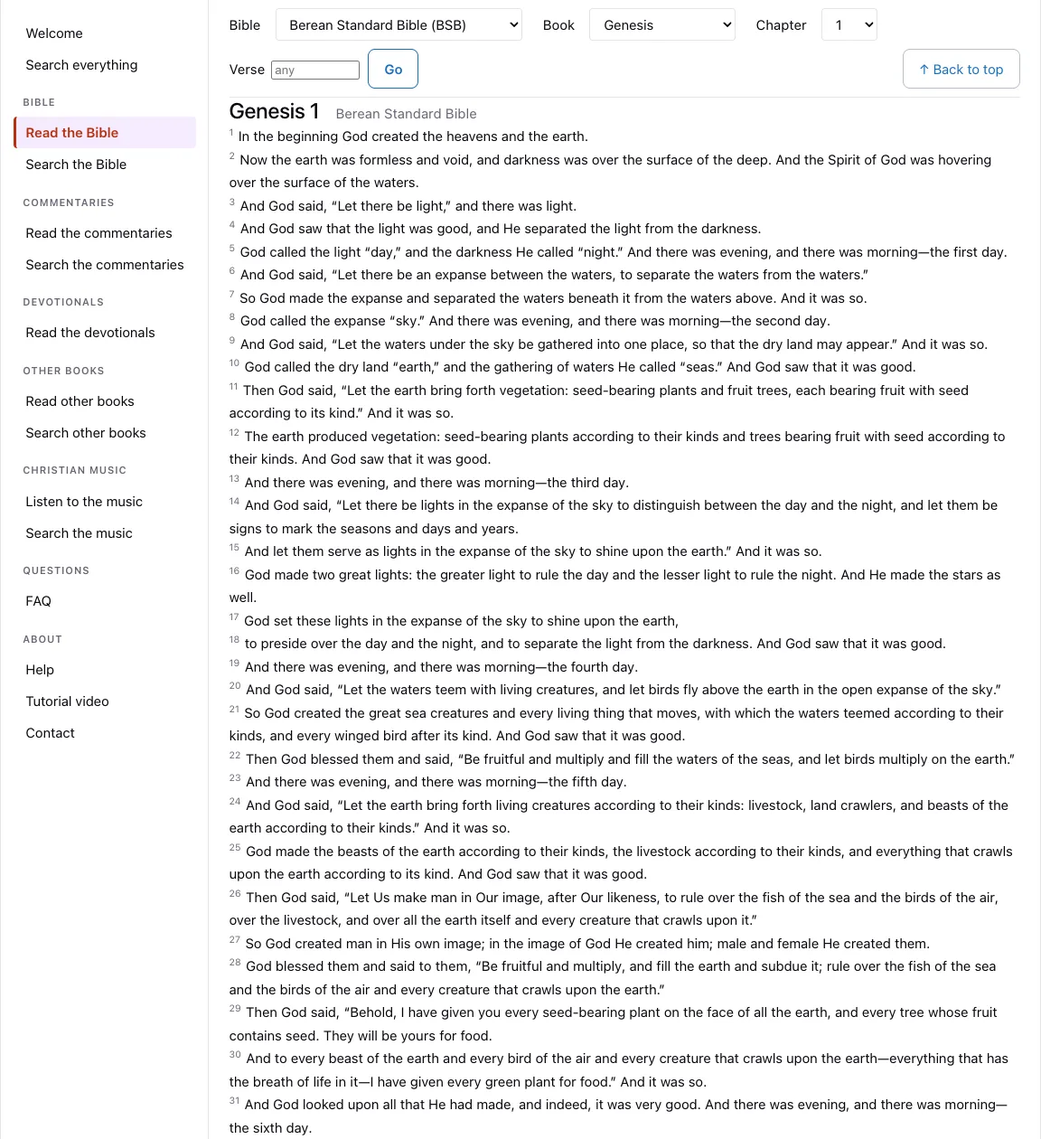
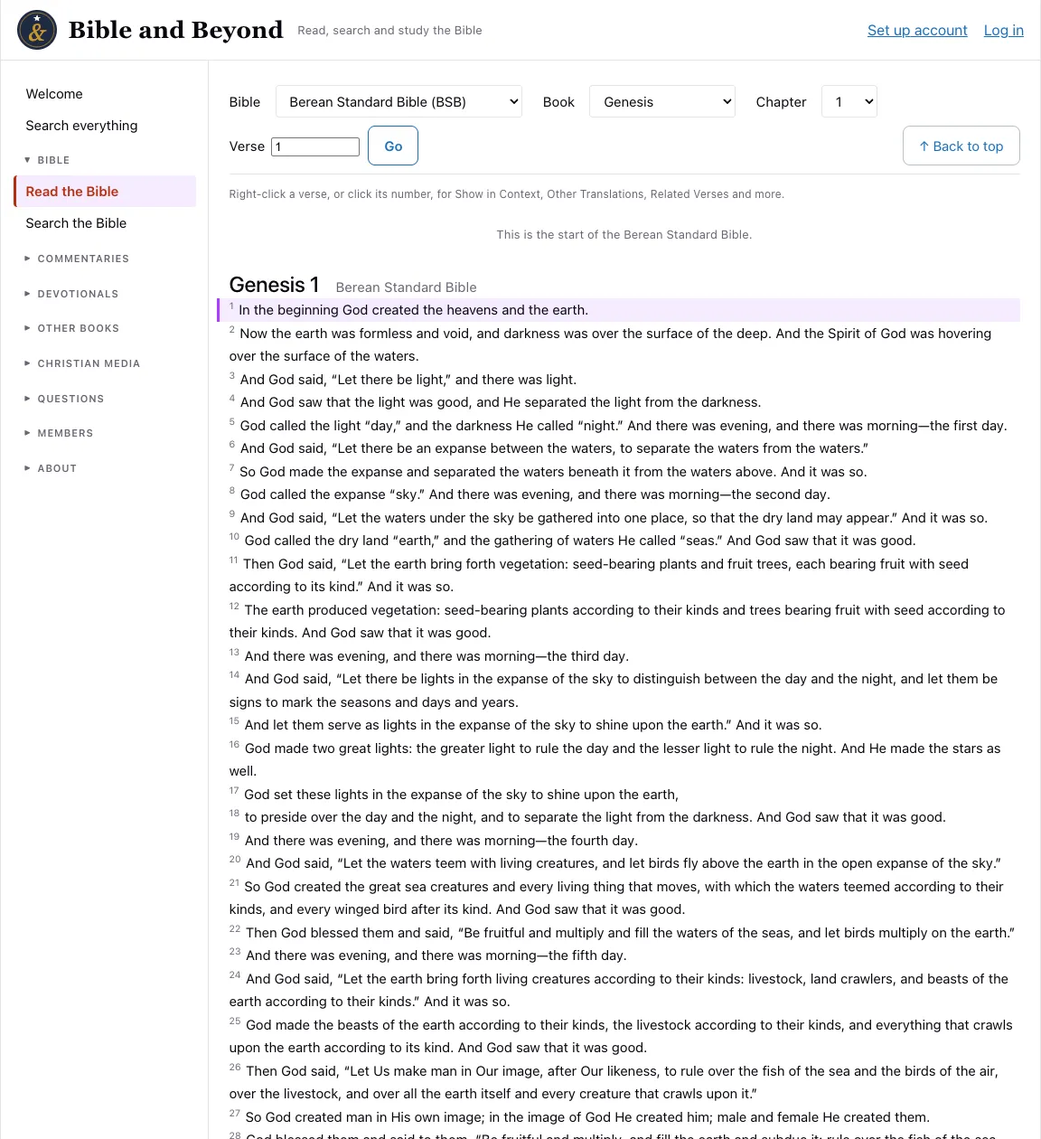
Retake the Help pictures and remake the tutorial video
All 28 Help pictures retaken with the collapsible sidebar, with new ones
for playlist Edit and the Prayer Wall; the Help text covers the menu
groups and the media names. The tutorial (11 min 6 s, captions here,
the video copied to the server by hand) adds the Prayer Wall, playlist
editing and the FAQ in Search everything. The sidebar now opens the
group of a page opened directly even when that group appears late
(Other books, Christian media), and Search everything's "Show more"
buttons are outlined like the others.

diff --git a/frontend/src/HelpPage.tsx b/frontend/src/HelpPage.tsx
@@ -106,13 +106,14 @@ function HelpPage({ translations, onNavigate, hasMusic = false }: HelpPageProps)
       <p>
         Bible and Beyond is free. You can read and search everything on it without an account and without logging in.
         If you set up an account and log in, you can also write your own notes, have a devotional emailed to you each
-        day, and ask to be allowed to put your own questions to the FAQ or to join Conversations. This guide shows each part of the site.
+        day, make music playlists, and ask to be allowed to put your own questions to the FAQ or to write in Conversations and on
+        the Prayer Wall. This guide shows each part of the site.
         Click a picture to see it full size.
       </p>
       <p>
         Prefer to watch? The{' '}
         <PageLink onNavigate={onNavigate} view="tutorial">tutorial video</PageLink>{' '}
-        is a seven-minute narrated tour of the whole site.
+        is an eleven-minute narrated tour of the whole site.
       </p>
 
       <nav className="help-contents" aria-label="Contents of this guide">
@@ -134,9 +135,12 @@ function HelpPage({ translations, onNavigate, hasMusic = false }: HelpPageProps)
           Every page has the same three parts. At the top is the <strong>header</strong>: click the name or the round
           emblem to return to the <PageLink onNavigate={onNavigate} view="welcome">Welcome</PageLink> page. At the top right are{' '}
           <em>Set up account</em> and <em>Log in</em>; once you are logged in you see your email address,{' '}
-          <em>My notes</em> and <em>Log out</em> there instead. On the left is the <strong>menu</strong>, grouped into
-          the Bible, the commentaries, the devotionals, the other books, questions (the FAQ) and about (this Help page
-          and Contact). On a phone the menu is hidden behind the menu button in the header.
+          <em>My notes</em> and <em>Log out</em> there instead. On the left is the <strong>menu</strong>: Welcome and
+          Search everything at the top, then groups for the Bible, the commentaries, the devotionals, the other books,
+          Christian media, questions (the FAQ), members (Conversations and the Prayer Wall) and about (this Help page,
+          the tutorial video and Contact). The groups start closed to keep the menu short: click a group&rsquo;s name to
+          open it and see its pages, and click it again to close it. The group of the page you are on opens by itself.
+          On a phone the menu is hidden behind the menu button in the header.
         </p>
         <p>
           The Welcome page has a card for each part of the site, listing what is on it now (the Bibles, the
@@ -147,9 +151,9 @@ function HelpPage({ translations, onNavigate, hasMusic = false }: HelpPageProps)
         <Screenshot
           name="welcome"
           width={1152}
-          height={1388}
-          alt="The Welcome page with the menu on the left and a card for the Bible, the commentaries, the devotionals and the other books"
-          caption="The Welcome page: the header, the menu on the left, a card for each part of the site, and Search everything at the foot."
+          height={1300}
+          alt="The Welcome page with the menu on the left, its groups closed, and cards for the Bible, the commentaries, the devotionals, the other books and Christian media"
+          caption="The Welcome page: the header, the menu on the left (click a group to open it), and a card for each part of the site."
         />
       </section>
 
@@ -192,7 +196,7 @@ function HelpPage({ translations, onNavigate, hasMusic = false }: HelpPageProps)
         <Screenshot
           name="search-all"
           width={1152}
-          height={1764}
+          height={1700}
           alt="Search everything with results for love in the Bible and in the commentaries"
           caption="Search everything for “love”: the Bible verses first, then the commentary notes, each with a link to read it."
         />
@@ -348,9 +352,9 @@ function HelpPage({ translations, onNavigate, hasMusic = false }: HelpPageProps)
         <Screenshot
           name="bible-search"
           width={1152}
-          height={2644}
-          alt="Search results for love in the BSB and KJV, with an NIV section below and the search options open"
-          caption="“love” searched in the BSB and the KJV together, with the NIV in its own section below, and the Search Options open."
+          height={1900}
+          alt="Search results for love in the BSB, with the search options open"
+          caption="“love” searched in the Berean Standard Bible, with the Search Options open."
         />
         <p>
           <strong>Searching with AI.</strong> If your account may ask its own FAQ questions, choose <em>Use AI to find
@@ -443,8 +447,8 @@ function HelpPage({ translations, onNavigate, hasMusic = false }: HelpPageProps)
         </p>
         <Screenshot
           name="devotional-email"
-          width={907}
-          height={409}
+          width={875}
+          height={377}
           alt="The Email me this devotional each day panel with a time of day, a time zone and a button"
           caption="Choosing a time to receive the daily reading by email."
         />
@@ -461,7 +465,7 @@ function HelpPage({ translations, onNavigate, hasMusic = false }: HelpPageProps)
         <Screenshot
           name="other-books"
           width={1152}
-          height={1870}
+          height={1700}
           alt="The list of other books, each with part and chapter choosers and a Read button"
           caption="Read other books: every book with its parts and chapters."
         />
@@ -507,7 +511,7 @@ function HelpPage({ translations, onNavigate, hasMusic = false }: HelpPageProps)
         <section id="help-music" tabIndex={-1} className="help-section">
           <h2>Christian media</h2>
           <p>
-            <PageLink onNavigate={onNavigate} view="music">Listen to the music</PageLink> lists hymns and songs by title. Open one (click its
+            <PageLink onNavigate={onNavigate} view="music">Listen to the media</PageLink> lists hymns, songs and talks by title. Open one (click its
             title) to see its player and its words; press play. Starting another pauses the first, and closing a song stops it. A recording keeps playing while
             you read another page of the site (a video pauses, since it could not be seen). Some songs show their words
             as a page of a hymnal (a picture or a PDF) rather than as text; a PDF also has a link to open it in a new
@@ -533,6 +537,13 @@ function HelpPage({ translations, onNavigate, hasMusic = false }: HelpPageProps)
             some away and save under the same name (the order is kept, new songs go at the end);{' '}
             <em>Delete this playlist</em> removes it. Your playlists are yours alone.
           </p>
+          <Screenshot
+            name="playlist-edit"
+            width={1152}
+            height={900}
+            alt="Your playlists open, editing a playlist: each song with a drag handle, up and down arrows and Remove, then the Add songs list"
+            caption="Editing a playlist: drag a song by its handle to move it, remove one, or add others from the list."
+          />
           <p>
             <PageLink onNavigate={onNavigate} view="searchMusic">Search the media</PageLink> finds a song by its title, its author, its
             words or its keywords (words the site's administrator gives it, listed first), and <em>Play this song</em> on a result takes you to it. When you are logged in, each result also has
@@ -659,8 +670,8 @@ function HelpPage({ translations, onNavigate, hasMusic = false }: HelpPageProps)
           name="note"
           width={1152}
           height={953}
-          alt="The notes window for John 1:1 with a note being written"
-          caption="Writing a note on John 1:1."
+          alt="The notes window for John 1:14 with a note being written"
+          caption="Writing a note on John 1:14."
         />
         <p>
           <PageLink onNavigate={onNavigate} view="notes">My notes</PageLink> (at the top of the page when you are logged in) lists all of your
@@ -672,7 +683,7 @@ function HelpPage({ translations, onNavigate, hasMusic = false }: HelpPageProps)
         <Screenshot
           name="my-notes"
           width={1152}
-          height={1746}
+          height={1420}
           alt="The My notes page with four notes and the form to add a note on a Bible verse"
           caption="My notes, with a note on a verse, a reading and a commentary note, and the form to add one."
         />
@@ -715,9 +726,9 @@ function HelpPage({ translations, onNavigate, hasMusic = false }: HelpPageProps)
         </ul>
         <Screenshot
           name="conversations"
-          width={920}
-          height={957}
-          alt="The Conversations page with two posts by two members, each with a reply, and Edit and Delete on the member's own post and reply"
+          width={1152}
+          height={1000}
+          alt="The Conversations page with two posts by two members, one with a reply, and Edit and Delete on the member's own post"
           caption="Conversations: posts by members, newest first, with their replies, and Edit and Delete on your own."
         />
       </section>
@@ -732,6 +743,13 @@ function HelpPage({ translations, onNavigate, hasMusic = false }: HelpPageProps)
           request shows only on the Prayer Wall, and a Conversations post only in Conversations. Anyone can read what
           you share, with your name, so leave out what others would not want made public.
         </p>
+        <Screenshot
+          name="prayer-wall"
+          width={1152}
+          height={900}
+          alt="The Prayer Wall with two prayer requests by members, one with a reply"
+          caption="The Prayer Wall: prayer requests and praises, newest first, with replies."
+        />
       </section>
 
       <section id="help-contact" tabIndex={-1} className="help-section">

diff --git a/frontend/src/SideNav.tsx b/frontend/src/SideNav.tsx
@@ -29,14 +29,17 @@ function SideNav({ groups, activeView, isOpen, onNavigate }: SideNavProps) {
     const heading = groupHeadingOf(groups, activeView)
     return new Set(heading ? [heading] : [])
   })
-  // The page last opened, so its group is opened once each time another page is reached (set while rendering, as
-  // React advises for state that follows a prop).
-  const [shownView, setShownView] = useState(activeView)
-  if (shownView !== activeView) {
-    setShownView(activeView)
-    const heading = groupHeadingOf(groups, activeView)
-    if (heading && !openHeadings.has(heading)) {
-      setOpenHeadings(new Set([...openHeadings, heading]))
+  // The page last opened and its group, so the group is opened once each time another page is reached (set while
+  // rendering, as React advises for state that follows a prop). The group is part of it because some groups
+  // (Other books, Christian media) appear only once the site knows it has some: a page of theirs opened directly
+  // is shown before its group exists.
+  const activeHeading = groupHeadingOf(groups, activeView)
+  const placeKey = `${activeView}|${activeHeading ?? ''}`
+  const [shownPlace, setShownPlace] = useState(placeKey)
+  if (shownPlace !== placeKey) {
+    setShownPlace(placeKey)
+    if (activeHeading && !openHeadings.has(activeHeading)) {
+      setOpenHeadings(new Set([...openHeadings, activeHeading]))
     }
   }
 

diff --git a/frontend/src/TutorialPage.tsx b/frontend/src/TutorialPage.tsx
@@ -4,16 +4,17 @@ interface TutorialPageProps {
   onNavigate: (view: View) => void
 }
 
-// The narrated tour of the site, a video of about ten minutes (remade 2026-11-12). The video file is too large for git: it lives in
+// The narrated tour of the site, a video of about eleven minutes (remade 2026-11-14). The video file is too large for git: it lives in
 // public/tutorial/ on the server only (see "Tutorial video" in CLAUDE.md). The poster and captions are committed.
 function TutorialPage({ onNavigate }: TutorialPageProps) {
   return (
     <div className="welcome tutorial-page">
       <h1>Tutorial video</h1>
       <p>
-        A ten-minute tour of Bible and Beyond: reading and searching the Bible, the commentaries, the devotionals,
+        An eleven-minute tour of Bible and Beyond: reading and searching the Bible, the commentaries, the devotionals,
         the other books and the media, searching the Internet Archive, the FAQ, and what a free account adds: notes,
-        daily emails, playlists, and on request AI search, your own questions and Conversations. Press play to start;
+        daily emails, playlists, and on request AI search, your own questions and posting in Conversations and on the
+        Prayer Wall. Press play to start;
         the button at the bottom right shows it full screen, and CC turns the captions on or off.
       </p>
       <video

diff --git a/frontend/src/WelcomeSearch.tsx b/frontend/src/WelcomeSearch.tsx
@@ -305,7 +305,7 @@ function WelcomeSearch({ isHidden, isPage, onOpen, onOpenSong, onOpenFaq }: Welc
             })}
           </ul>
           {group.results.length < group.total && (
-            <button type="button" className="welcome-search-more" disabled={loadingMore !== null} onClick={() => showMore(group)}>
+            <button type="button" className="secondary-button welcome-search-more" disabled={loadingMore !== null} onClick={() => showMore(group)}>
               {loadingMore === group.kind ? 'Loading…' : `Show more ${hitWords[group.kind]}s`}
             </button>
           )}

diff --git a/CLAUDE.md b/CLAUDE.md
@@ -33,11 +33,11 @@ A web app that answers Bible questions using AI/ML.
 ## Site layout (header, sidebar, welcome page, footer)
 - The page (`App.tsx`) is a header, a sidebar and the page content side by side, and a footer. It replaced the row of tabs. Each page has its own address and the browser's Back button works (see "Page addresses and the Back button"). The pages (`View` in `views.ts`): Welcome (the page the site opens on), Read the Bible, Search the Bible, Read the commentaries, Search the commentaries, Read the devotionals, FAQ, Help, Contact, My notes, the account pages (set up account, log in, forgot and reset password, confirm email, stop emails) and the copyright notices (opened from the Help page; it is not in the sidebar). The sidebar is grouped (Bible, Commentaries, Devotionals, Questions: FAQ, About: Help and Contact); the commentaries and devotionals entries appear only when there are some. Every reader and search stays mounted while another page is open, so nothing typed or scrolled is lost; each takes an `isHidden` prop.
 - **Header** (`SiteHeader.tsx`): the round emblem (`public/logo-icon.svg`: the navy circle with the gold "&" and star, taken from the main logo) and the name as text (the **Title** set on the Drupal Site settings screen, "Bible and Beyond" until changed), in a serif face, with a short tagline; clicking it goes to the welcome page. The open-book `public/favicon.svg` is the browser-tab icon only (the two were swapped by mistake once; the owner chose the emblem for the page and the book for the tab). **Both can be replaced on the Drupal Site settings screen** (see "Site icons"); these files are then used only until an uploaded one is removed. The wordmark `public/logo.svg` is not used on the page.
-- **Sidebar** (`SideNav.tsx`): it stays in view while the page scrolls (its column runs the full height so its divider does). **Its groups open and close** (2026-11-14, the owner's request, to keep it short): each heading is a button with a small triangle (`aria-expanded`), and every group starts closed except the one holding the page shown, which opens whenever that page is reached (state set while rendering, not in an effect); Welcome and Search everything have no heading and always show. What is open is not stored. On a phone (800 px or narrower) it is a menu: the header, which then stays pinned to the top of the screen, has a button that opens it over the page; choosing an entry closes it.
+- **Sidebar** (`SideNav.tsx`): it stays in view while the page scrolls (its column runs the full height so its divider does). **Its groups open and close** (2026-11-14, the owner's request, to keep it short): each heading is a button with a small triangle (`aria-expanded`), and every group starts closed except the one holding the page shown, which opens whenever that page is reached (state set while rendering, not in an effect; keyed on the page **and** its group, because Other books and Christian media appear only once loaded, so `/books` or `/music` opened directly would otherwise keep their group closed: found by the tour recording); Welcome and Search everything have no heading and always show. What is open is not stored. On a phone (800 px or narrower) it is a menu: the header, which then stays pinned to the top of the screen, has a button that opens it over the page; choosing an entry closes it.
 - **Welcome page** (`WelcomePage.tsx`): says what the site is and shows **three cards**, each with its buttons (built from what is loaded). **A card's buttons sit side by side, both at the left, at least 16px apart** (the owner's minimum; spreading them to the two edges was tried and not liked) (2026-11-14, the owner's request, to make the page shorter): no "the" in their words (Read Bible, Search Bibles, Read commentaries, Search commentaries, Read devotionals, Listen to music, Search music, Read conversations), 0.8em type, tight padding (0.35rem at the sides) and card side padding 0.6rem, so two fit a card at three cards a row; **when the cards have room** (two to a row or one wide card: a container query on `.welcome-cards`, width 22rem to 53rem, and on the Conversations card) the buttons are full size (0.95em, the usual padding), 1.25rem apart, and the cards keep their 1.1rem side padding (the Conversations card always) (the owner's request, the same day). Do not put the container on each card: it stops the cards lining up their rows through subgrid (checked at 1280 wide: "Read commentaries" with "Search commentaries" fills the card exactly; on a narrower card they wrap). Keep new card buttons short: the Bible (Read the Bible and Search the Bible), the commentaries (Read and Search, in the same order as the Bible card) and the devotionals (which mentions the daily email). It has no instructions, no contact section and no notes on the texts: those are on the Help page (the owner moved them there on 2026-11-07). Keep the cards true when features change; it is the page a new visitor reads. **What the cards list is built from what is loaded**, not written in: the Bibles (the published local Bibles, so one uploaded and published in Drupal appears by itself, and the licensed ones from the API.Bible list), the commentaries (their short names) and the devotionals (`describeDevotionals`: the daily ones and the chapter-by-chapter ones are named separately, with their counts, titles in italics). Only the descriptions of the features are fixed text.
 - **Search everything** (`WelcomeSearch.tsx`, under the welcome cards, and a page of its own: "Search everything" in the sidebar, under Welcome, address `/search-all`; it is one mounted search shown in both places, so the words and hits are the same, with an `h1` on its own page and an `h2` under the cards): one search box (match all words, any word or the exact phrase) over the Bible, the commentaries, the devotionals, the other books, the Christian music and **the FAQ** at once (the music added 2026-11-10, after the owner searched for a song there and did not find it; the FAQ added 2026-11-14 at the owner's request, after a search on the live site found nothing in the FAQ). **The FAQ group** (`search_faq` in `faq.py`, kind `faq`, "Show more questions", hit "Show the answer", which opens the FAQ page at that answer through `onOpenFaq` and `questionRequest` on `FaqPage`, a new id each time): each listed question with the site owner's note (tags stripped) and its stored answer (`faq_answers`, Markdown marks stripped) as one text, the same matching as the music (`commentary_english`), questions whose own words match first, an excerpt of the note or answer. A question nobody has opened has no stored answer, so only its words and note are found: `ml-service/.venv/bin/python ml-service/scripts/fill_faq_answers.py` fetches the missing or out-of-date answers through `get_answer` (one at a time, a pause between Gemini calls; run it after changing the FAQ prompt). The search by meaning leaves the FAQ out (`AI_KINDS`; there are no embeddings of it). Tests: `tests/test_faq_search.py`. `GET /search-everything?query=&match_mode=&kind=&page=&per_page=` (`ml-service/site_search.py`) runs the searches that already exist and returns `groups` in that order, 5 hits each by default, leaving out a kind with none: the Bible is **one** Bible (the BSB when published, else the first published local Bible), searched for **whole words** (so "again" does not list every "against"), with `terms` for bold; the commentaries and the books come with excerpts (`search_commentaries`, and `search_library` in `devotionals.py`, which now serves both the devotionals and the books). With `kind` it returns that one group's next page ("Show more verses / notes / readings / passages"). Each hit opens its reader there through a `Destination` ("Read in the Bible", which also takes Shift/Cmd-click for a new tab; "Read the note"; "Read this reading"; "Read this chapter"; "Play this song", which opens the music page at the song through `onOpenSong`). The search is mounted outside the welcome page and only shown on it, so its hits are still there after going Back. Common words cost most: "the of and" took about 0.8 s locally. Tests: `tests/test_site_search.py` (the searches faked).
 - **Footer** (`SiteFooter.tsx`): on every page, in the column to the right of the sidebar (below the page content, starting at the content's left edge; the sidebar and its divider run the full height beside it; on a phone it spans the width). It has **only the site's own line** (the **Copyright** set on the Drupal Site settings screen; "Copyright © 2026 by Paul Carrick. All Rights Reserved." until changed, and no footer at all if it is emptied). Everything about the texts moved to the **Help page** (`HelpPage.tsx`; the owner asked for this on 2026-11-07, choosing it over keeping a one-line API.Bible credit in the footer): how to use the site, accounts, notes and emails, "About the texts", the API.Bible line and the "Bible copyright notices" link, the copyright notice of each licensed Bible (NIV, NASB, The Message) fetched with `fetchCopyrights()` when the page opens (the server keeps them for a day, so about three API.Bible requests a day at most; if they cannot be fetched the page still names the Bibles and links to the notices), the credits that CC BY asks for (STEP Bible, OpenBible.info) and the statement that the other Bibles, the commentaries and the devotionals are public domain. The full notices and credits are on the copyright notices page (`CopyrightPage.tsx`, "Back to Help"). When a work with its own notice is added (a licensed Bible, a Creative Commons data set), add it to the Help page and that page. **A risk the owner accepted:** API.Bible's terms were noted as needing the API.Bible link and the notices link visible; they are now one click away (Help in the sidebar) rather than on every page. The notice of a licensed Bible is still shown with its text under search results (`SearchResults.tsx`: the copyright, the API.Bible link and "Bible copyright notices"). If API.Bible ever objects, put one line back in the footer.
-- **The user guide** (the Help page, `HelpPage.tsx`, rewritten 2026-11-08 at the owner's request): a list of contents (buttons that scroll to each section), then one section per feature with screenshots (`public/help/*.webp`, 26 files, about 3.3 MB, loaded lazily; **all 26 retaken on 2026-11-12** after the button restyle, the links-to-buttons change and the Tutorial video entry: headless Chrome with puppeteer-core at 1152 wide, `cwebp -q 80`, logged in as the local `you@example.com` through a temporary session row (deleted afterwards, so its password was never touched), the two local songs published for the music pictures and hidden again, the two notes pictures from a temporary `you@example.org` with tidy sample notes (the local account's notes are test scribbles), Conversations from two temporary members; a picture of a reader is the visible window only, a hidden page's elements must not be picked (every page stays mounted), and a select list is shown open by giving it a `size`; `ai-search-results` and `ai-search-options` added 2026-11-11 under the Bible search, taken from the local site as a temporary `you@example.org` account with puppeteer-core at 1152 wide, copies as PNG in the owner's Documents; click opens full size; the three added on 2026-11-10, `music-open`, `music-search` and `apostles-creed` (the Creed with the tooltip of a statement link), were taken from the local site in headless Chrome at 1152 pixels wide and saved with `cwebp -q 80`; the music section and its pictures show only when a song is published), then About the texts, Licensed Bibles and Credits as before. It says plainly that no account is needed, that an account adds notes, daily emails and (on request) your own FAQ questions, and that free-form FAQ questions are asked for through the Contact form after setting up an account. **The screenshots must never show a real person's address**: the owner's were covered with `you@example.com` and the browser bar cropped off; new ones are best taken from the local site logged in as a local account `you@example.com` (it exists only in the local database). Keep the guide true when a feature changes, and retake its screenshot. A full-page screenshot tool stitches the continuous readers wrongly (a day or chapter appears repeated): take those of the visible window only.
+- **The user guide** (the Help page, `HelpPage.tsx`, rewritten 2026-11-08 at the owner's request): a list of contents (buttons that scroll to each section), then one section per feature with screenshots (`public/help/*.webp`, **28 files, about 3.0 MB**, loaded lazily; **all retaken on 2026-11-14** after the collapsible sidebar, with two new ones, `playlist-edit` and `prayer-wall`, by `pictures.mjs` in the owner's Documents, "Bible and Beyond - Feature Tour 2026-11-14" (its README says how): headless Chrome at 1152 wide, the window as tall as the picture, `cwebp -q 80`, made-up members and notes from its `sample_data.py add` (removed afterwards with `remove`), logged in as you@example.org or ruth@example.org; `playlist-edit` needed a third published song for its Add songs list, a temporary row "be-thou-my-vision", removed; before that, **all 26 retaken on 2026-11-12** after the button restyle, the links-to-buttons change and the Tutorial video entry: headless Chrome with puppeteer-core at 1152 wide, `cwebp -q 80`, logged in as the local `you@example.com` through a temporary session row (deleted afterwards, so its password was never touched), the two local songs published for the music pictures and hidden again, the two notes pictures from a temporary `you@example.org` with tidy sample notes (the local account's notes are test scribbles), Conversations from two temporary members; a picture of a reader is the visible window only, a hidden page's elements must not be picked (every page stays mounted), and a select list is shown open by giving it a `size`; `ai-search-results` and `ai-search-options` added 2026-11-11 under the Bible search, taken from the local site as a temporary `you@example.org` account with puppeteer-core at 1152 wide, copies as PNG in the owner's Documents; click opens full size; the three added on 2026-11-10, `music-open`, `music-search` and `apostles-creed` (the Creed with the tooltip of a statement link), were taken from the local site in headless Chrome at 1152 pixels wide and saved with `cwebp -q 80`; the music section and its pictures show only when a song is published), then About the texts, Licensed Bibles and Credits as before. It says plainly that no account is needed, that an account adds notes, daily emails and (on request) your own FAQ questions, and that free-form FAQ questions are asked for through the Contact form after setting up an account. **The screenshots must never show a real person's address**: the owner's were covered with `you@example.com` and the browser bar cropped off; new ones are best taken from the local site logged in as a local account `you@example.com` (it exists only in the local database). Keep the guide true when a feature changes, and retake its screenshot. A full-page screenshot tool stitches the continuous readers wrongly (a day or chapter appears repeated): take those of the visible window only.
 - **Links and buttons** (the owner's rule, 2026-11-12): where actions sit together and one of them is a button, they are **all buttons**. Every button is an outlined box with rounded corners (8 px) and no fill, filling lightly on hover (the owner's choice, 2026-11-12; a lighter blue in dark mode): the main one `primary-button` (blue outline, bold), the others `secondary-button` (grey outline, same size; Cancel, Clear search, Stop, Clear the ticks, Ask another question, "← All commentaries/devotionals/books" and "↑ Back to top" in the reader toolbars). The links at the foot of a form are buttons too (the account forms: Forgot your password?, No account yet? Set one up, Already have an account? Log in, Back to log in; `.account-other-actions`). **Lists of actions stay links** (`link-button`), because they take less room: Edit / Delete under notes, the verse links under search results, "Read this chapter" and the like in results, the delete confirmations; so do links inside a sentence. The exception the owner chose (2026-11-12): **Edit, Delete and Reply under Conversations posts and replies**, and their "Delete this ...?" confirmations, are small outlined buttons (`secondary-button small-button`, `danger-button` for "Yes, delete it"; `.conversation-actions`). Follow this in new pages. The Internet Archive's "Borrow for an hour" button is outlined the same way; only the floating "↑ Back to top" button stays filled, so it shows over the text it floats on.
 - **Tooltips** (`SiteTooltip.tsx`, mounted once at the end of `App.tsx`; style `.site-tooltip` in `App.css`; added 2026-11-09 because the owner found the browser's tooltips too small): a larger tooltip (0.95 rem, dark on light pages, light on dark ones, up to 24 rem wide, kept inside the window, below the element or above it when there is no room) for **every element with a `title`**, so components keep using plain `title` attributes. It shows after 0.4 s of the mouse resting on the element, or at once on keyboard focus (`:focus-visible`), and hides when the pointer leaves, on a click, scroll, resize or Escape; not on touch. On first hover it moves the `title` to `data-tooltip` (so the browser's small one does not also show) and copies it to `aria-description` unless the element has its own description or the same `aria-label`. The Bible reader's verse numbers say: "More for this verse: right-click it, or click its number. Show in Context, Full Chapter, Other Translations, Related Verses, Original Words, Commentaries and Notes." (keep it in step with `verseMenuItems`).
 - The footer is not counted in the "fit screen" sizing of search results and windows (it is below the fold and the reader scrolls to it), so results fill the window as before. The "Back to top" controls (Home key, a button that follows the reader, a link in the choosers and one under the last chapter) go to the top of the page; they were "Back to tabs" until the tabs were replaced.
@@ -387,7 +387,7 @@ A web app that answers Bible questions using AI/ML.
 - The old Network Solutions hosting service on this domain is no longer used and expires 2026-12-06; cancel it if it is not needed.
 
 ## Tutorial video
-- Page `/tutorial` (`TutorialPage.tsx`, "Tutorial video" in the sidebar under Help; the Help page links to it too; added 2026-11-11, **remade 2026-11-12** at the owner's request because the first felt rushed). A 9 min 38 s narrated tour (Ava (Premium) voice from macOS `say` at rate 165, captions in `public/tutorial/bible-and-beyond-feature-tour.en.vtt`, one per sentence, poster `poster.webp` from the opening card). It covers the welcome page, the Bible reader (verse menu, a word's Hebrew or Greek), Bible search with Search Options and filters, Search everything, the commentaries and their search, devotionals, other books and their search, the Apostles' Creed, music, the Internet Archive search, the FAQ (with an owner's note), then a free account (setting one up, notes, daily emails, playlists), then what the administrator turns on (AI search by verses and by meaning, your own question, Conversations), and Help.
+- Page `/tutorial` (`TutorialPage.tsx`, "Tutorial video" in the sidebar under Help; the Help page links to it too; added 2026-11-11, remade 2026-11-12 at the owner's request because the first felt rushed, and **remade again 2026-11-14** for the collapsible sidebar, the welcome cards, playlist Edit and drag, the FAQ in Search everything and a new Prayer Wall section: **11 min 6 s**, every section re-recorded, the "ask your own question" section included this time; sources in the owner's Documents, "Bible and Beyond - Feature Tour 2026-11-14"). Before that, a 9 min 38 s narrated tour (Ava (Premium) voice from macOS `say` at rate 165, captions in `public/tutorial/bible-and-beyond-feature-tour.en.vtt`, one per sentence, poster `poster.webp` from the opening card). It covers the welcome page, the Bible reader (verse menu, a word's Hebrew or Greek), Bible search with Search Options and filters, Search everything, the commentaries and their search, devotionals, other books and their search, the Apostles' Creed, music, the Internet Archive search, the FAQ (with an owner's note), then a free account (setting one up, notes, daily emails, playlists), then what the administrator turns on (AI search by verses and by meaning, your own question, Conversations), and Help.
 - **Pacing (the owner asked for it unhurried):** each sentence starts where the recording reaches the action it describes, never before the previous sentence has ended plus 0.8 s; each clip holds 2 s after its last sentence; a visible pointer glides to each control before using it; typing at reading speed; smooth scrolling; waits for Gemini and the Internet Archive are cut out. The "ask your own question" section is from an earlier recording, paced the old way, because Gemini was overloaded during the remake.
 - **The video file is not in git** (about 50 MB; `frontend/public/tutorial/*.mp4` is ignored). Copy it to the server by hand, then build: `scp frontend/public/tutorial/bible-and-beyond-feature-tour.mp4 bible-and-beyond:bible-and-beyond.com/frontend/public/tutorial/` and `deploy/deploy.sh` (or `--all` if nothing in `frontend/` changed, so the build copies it into `dist`). nginx serves it as a plain file (range requests work, so it can be skipped through).
 - **The sources** are in the owner's Documents, "Bible and Beyond - Feature Tour 2026-11-12" (its README says how to remake it): the narration script, per-sentence voice files and `timings.json`, the recorder (`tour.mjs`, `recorder.mjs`: Chrome's screencast frames at 1920x1080 from a 1440x810 window at 4/3 scale), the clips with their cue times, the title cards, and `assemble.py`. The first tour's sources stay in "Bible and Beyond - Feature Tour clips". Pitfalls met while recording: the readers' choosers follow the chapter at the top of the screen and load the chapter before when near the top (so start a reader section already at its chapter, never scroll to the sticky choosers, and scroll in relative steps); text inside a closed `<details>` still has a position in Chrome (use `checkVisibility()`); every page stays mounted, so pick visible elements only.
